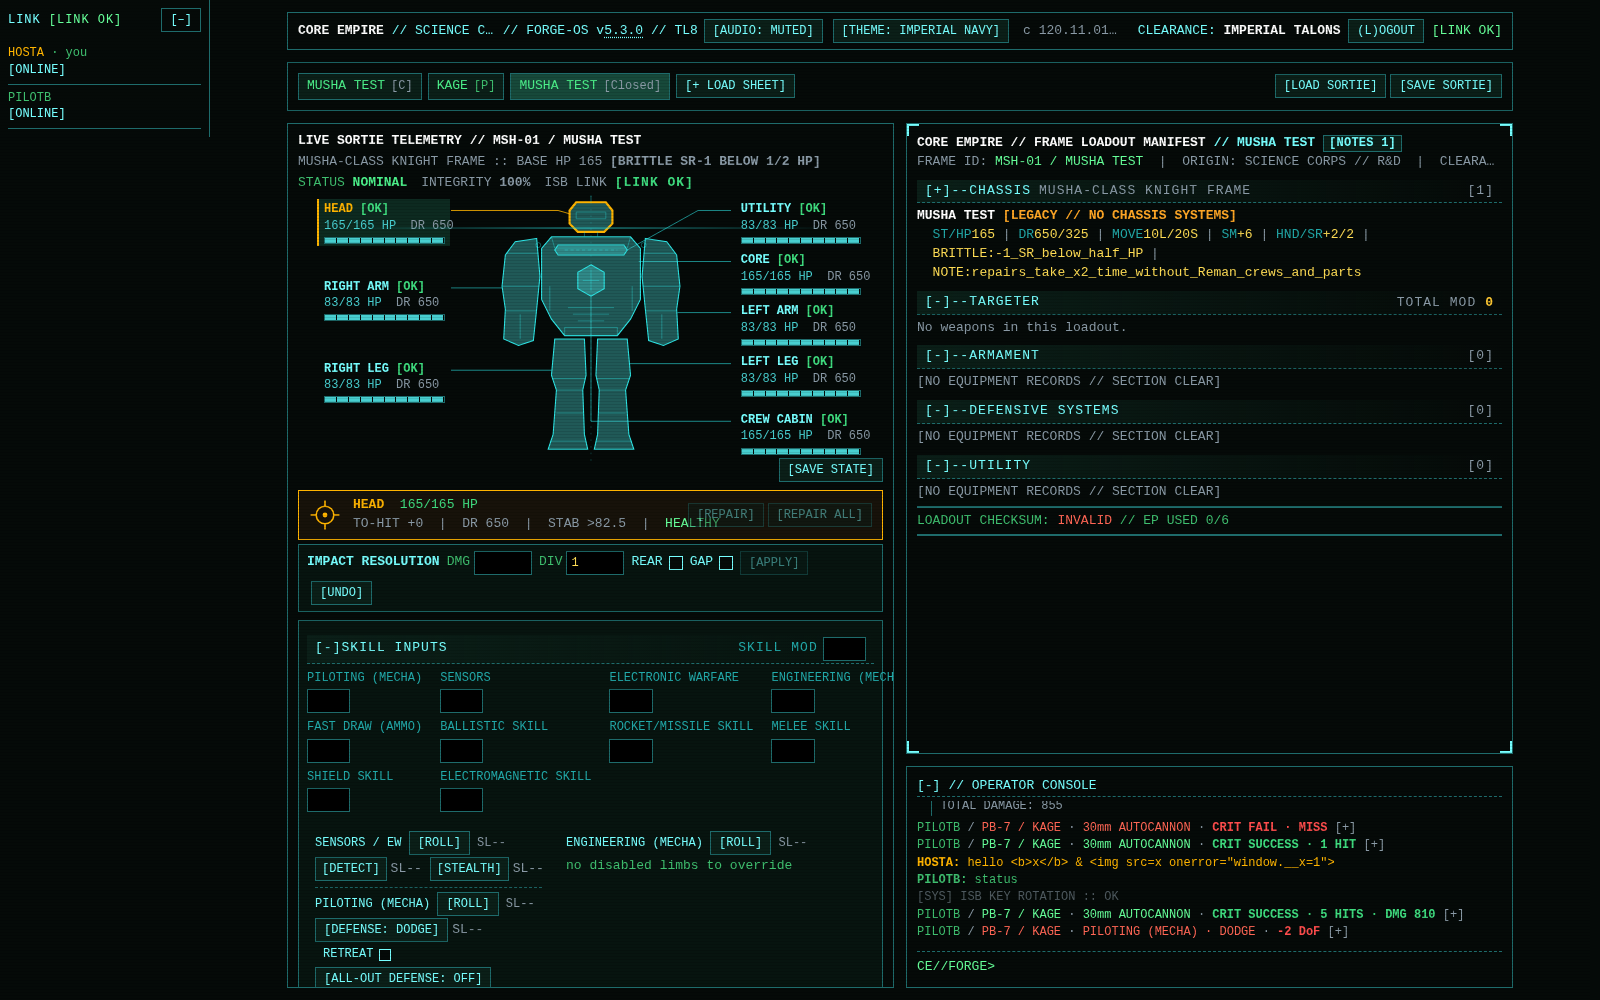
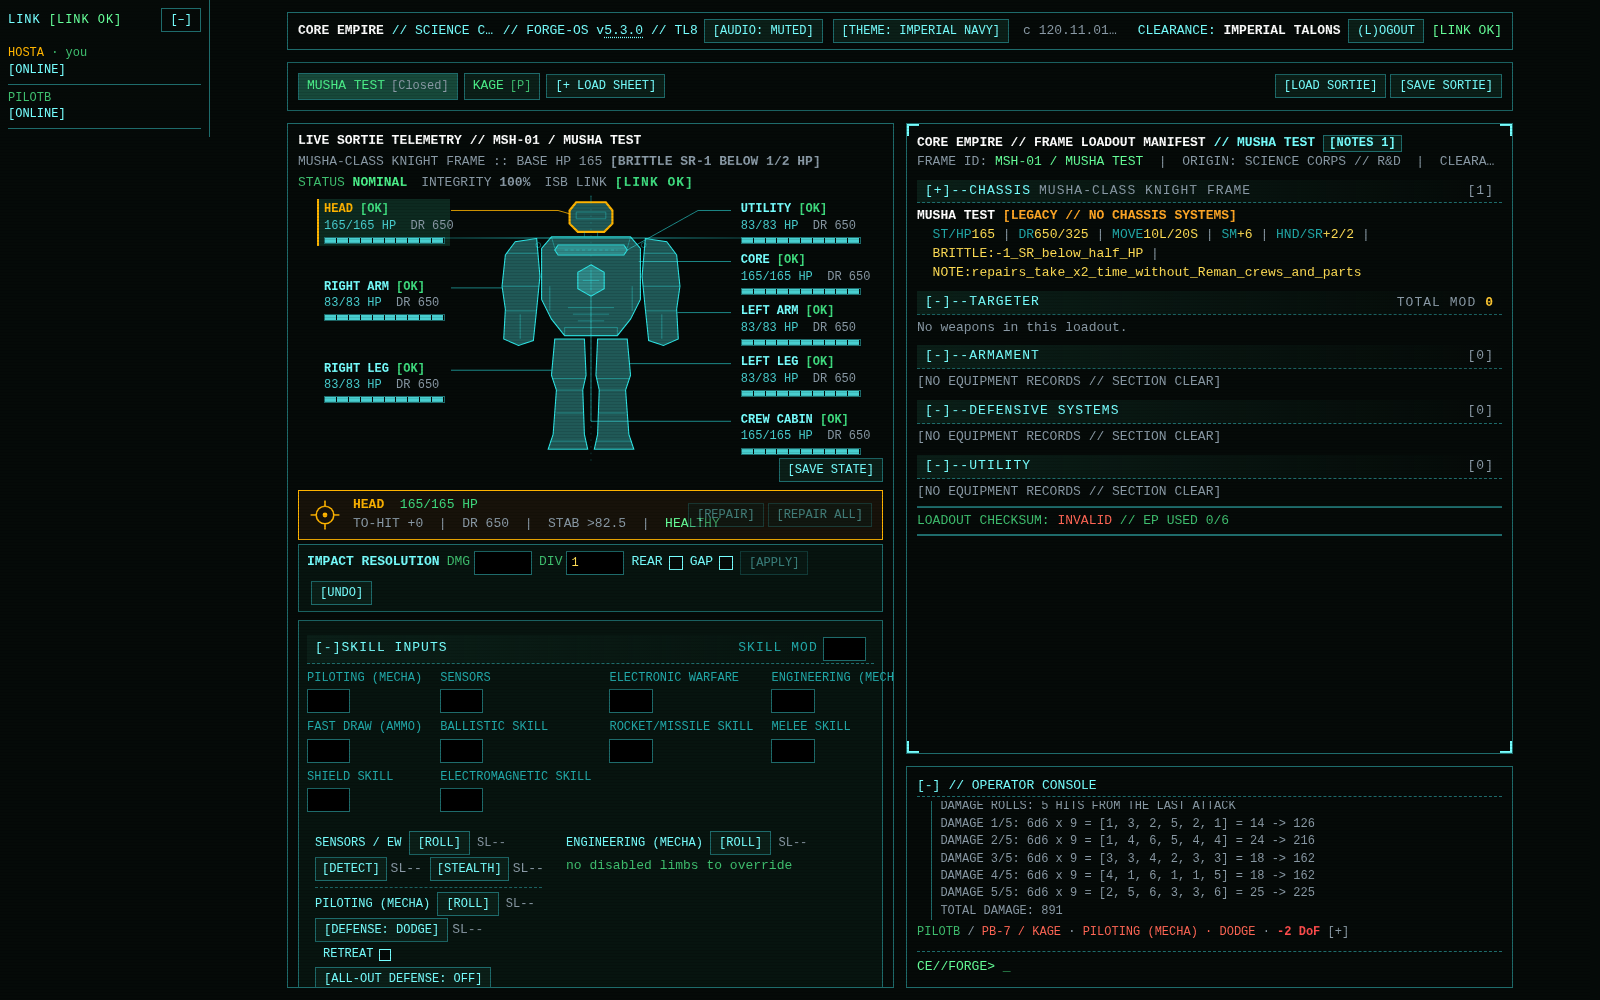
Remove docs/ and server contract; changelogs -> versions/changelogs; roll20 -> catalogue/reference

diff --git a/devtools/check-v53-mp.js b/devtools/check-v53-mp.js
@@ -107,10 +107,11 @@ const wait = (ms) => new Promise(r => setTimeout(r, ms));
   ok(await logHas(P.p, /YOUR UNITS ::/), "'/mp whoami' runs as a command");
   await wait(2500);
   ok(!(await got(H.p, /mp whoami/, 1500)), "'/mp whoami' is not sent as chat");
+  const seen = await H.p.evaluate(() => [...document.querySelectorAll('#log .rc')].map(e => e.dataset.rcid));
   await P.p.evaluate((k) => { const W = weapons(); W[k].am = 30; Forge.state().dmgN = 5; const R0 = Math.random; Math.random = () => 0; atkRoll(k); Math.random = R0; }, k[0]);
-  const card = async (p, re, ms = 10000) => { const t0 = Date.now(); while (Date.now() - t0 < ms) { const v = await p.evaluate((src) => { const re = new RegExp(src); const els = [...document.querySelectorAll('#log .rc')].filter(x => re.test(x.textContent)); const el = els[els.length - 1]; return el ? { id: el.dataset.rcid, txt: el.textContent, exp: el.getAttribute('aria-expanded') } : null; }, re.source); if (v) return v; await wait(300); } return null; };
+  const card = async (p, re, ms = 10000) => { const t0 = Date.now(); while (Date.now() - t0 < ms) { const v = await p.evaluate(([src, seen]) => { const re = new RegExp(src); const els = [...document.querySelectorAll('#log .rc')].filter(x => !seen.includes(x.dataset.rcid) && re.test(x.textContent)); const el = els[els.length - 1]; return el ? { id: el.dataset.rcid, txt: el.textContent, exp: el.getAttribute('aria-expanded') } : null; }, [re.source, seen]); if (v) return v; await wait(300); } return null; };
   const hcard = await card(H.p, /^PILOTB.* \/ PB-7 .* · .* · CRIT SUCCESS · \d+ HITS/);
-  ok(!!hcard && hcard.exp === 'false', 'host sees the attack as one line: USER / FRAME · WEAPON · N HITS ' + JSON.stringify(hcard));
+  ok(!!hcard && hcard.exp === 'false' && !/DMG/.test(hcard.txt), 'host sees the attack as one line: USER / FRAME · WEAPON · N HITS ' + JSON.stringify(hcard));
   if (hcard) {
     await H.p.locator(`#log .rc[data-rcid="${hcard.id}"]`).first().click(); await wait(300);
     const hd = await H.p.evaluate((id) => { const el = document.querySelector(`#log .rc[data-rcid="${id}"]`), d = el.nextElementSibling; return { exp: el.getAttribute('aria-expanded'), det: d && d.classList.contains('rcd') ? d.textContent : '', html: d ? d.innerHTML : '' }; }, hcard.id);
@@ -118,7 +119,7 @@ const wait = (ms) => new Promise(r => setTimeout(r, ms));
     await P.p.evaluate((k) => rollW(k), k[0]);
     const t0 = Date.now(); let up = null;
     while (Date.now() - t0 < 9000) { up = await H.p.evaluate((id) => { const els = document.querySelectorAll(`#log .rc[data-rcid="${id}"]`), d = els[0].nextElementSibling; return { n: els.length, txt: els[0].textContent, det: d ? d.textContent : '' }; }, hcard.id); if (/DMG \d+/.test(up.txt)) break; await wait(300); }
-    ok(up && up.n === 1 && /HITS · DMG \d+/.test(up.txt) && /DAMAGE 1\//.test(up.det), 'damage folds into the same line on the host (and its open details) ' + JSON.stringify(up && [up.n, up.txt]));
+    ok(up && up.n === 1 && /HITS · DMG \d+/.test(up.txt) && /DAMAGE 1\//.test(up.det) && /\[-\]$/.test(up.txt.trim()), 'damage folds into the same line on the host (and its open details) ' + JSON.stringify(up && [up.n, up.txt]));
   }
   await P.p.evaluate(() => { const R0 = Math.random; Math.random = () => 0.5; dodgeRoll(); Math.random = R0; });
   const dc = await card(H.p, /^PILOTB.* · DODGE · [+-]\d+ Do[SF]/);

diff --git a/devtools/check-v53.js b/devtools/check-v53.js
@@ -196,9 +196,10 @@ const wait = ms => new Promise(r => setTimeout(r, ms));
   await typeCmd('/help'); await wait(1500);
   ok(await p.evaluate(() => /COMMANDS START WITH \//.test(document.getElementById('log').textContent)), "'/help' lists the commands");
   const kr5 = await p.evaluate(() => weapons().findIndex(w => wRof(w) === 5));
+  const seen0 = await p.evaluate(() => [...document.querySelectorAll('#log .rc')].map(e => e.dataset.rcid));
   await p.evaluate((k) => { awBind(k, 1); S.dmgN = 5; S.pilot.rng = '1'; weapons()[k].am = 30; R(); const R0 = Math.random; Math.random = () => 0; atkRoll(k); Math.random = R0; }, kr5); await wait(3500);
-  const c1 = await p.evaluate(() => { const els = [...document.querySelectorAll('#log .rc')], el = els[els.length - 1]; return { sum: el.textContent, exp: el.getAttribute('aria-expanded'), role: el.getAttribute('role'), tab: el.tabIndex, id: el.dataset.rcid }; });
-  ok(/^LOCAL \/ .+ · 30mm.* · CRIT SUCCESS · \d+ HITS/.test(c1.sum) && c1.exp === 'false' && c1.role === 'button' && c1.tab === 0, 'attack roll: one compact line USER / FRAME · WEAPON · N HITS ' + JSON.stringify(c1));
+  const c1 = await p.evaluate((seen) => { const els = [...document.querySelectorAll('#log .rc')].filter(e => !seen.includes(e.dataset.rcid)), el = els[els.length - 1]; return { sum: el.textContent, exp: el.getAttribute('aria-expanded'), role: el.getAttribute('role'), tab: el.tabIndex, id: el.dataset.rcid, n: els.length }; }, seen0);
+  ok(/^LOCAL \/ .+ · 30mm.* · CRIT SUCCESS · \d+ HITS/.test(c1.sum) && c1.n === 1 && !/DMG/.test(c1.sum) && c1.exp === 'false' && c1.role === 'button' && c1.tab === 0, 'attack roll: one compact line USER / FRAME · WEAPON · N HITS ' + JSON.stringify(c1));
   await p.locator(`#log .rc[data-rcid="${c1.id}"]`).click(); await wait(200);
   const c2 = await p.evaluate((id) => { const el = document.querySelector(`#log .rc[data-rcid="${id}"]`), d = el.nextElementSibling; return { exp: el.getAttribute('aria-expanded'), det: d && d.classList.contains('rcd') ? d.textContent : '' }; }, c1.id);
   ok(c2.exp === 'true' && /3d6 \[1, 1, 1\] = 3 vs SL/.test(c2.det) && /SUCCESS BY/.test(c2.det) && /DEGREES OF SUCCESS/.test(c2.det), 'click expands the individual rolls (to-hit, SL, margin, degrees) ' + JSON.stringify(c2));

diff --git a/versions/v5.3/CHANGELOG-v5.3.md b/versions/v5.3/CHANGELOG-v5.3.md
@@ -1,0 +1,41 @@
+# FORGE-OS 5.3.0 (basic pass, built on 5.2.1)
+
+Files: terminal.html (v5.3.0), mp-bridge.js (v18), forge-hook.js (unchanged), server/room.server.ts (one optional field on console lines).
+New UI is marked **[UI]**.
+
+## Reverts / removals
+- DONE: The font is back to the original Consolas stack and sizes. The JetBrains Mono web font and the fonts/ folder are gone.
+- DONE: The HUD sortie header is back to the compact one-line readout. The BRITTLE and AOA tags stay. At 1280px the top bar fits on one line: flex nowrap, the brand truncates with an ellipsis, and the theme label is shorter.
+- DONE: The full-health paper doll uses the theme color again, slightly desaturated (`--c-full`), so it still looks different from the ok, dmg and crit colors.
+- DONE: The RAD tracker UI (the pilot rads line and buttons) is removed. A stored `pilot.rad` still loads and is kept, but it isn't shown.
+
+## Items / weapons [UI]
+- DONE: Left-clicking an item no longer opens its catalogue entry. Right-click (or Shift+F10 / the ContextMenu key) opens a menu with Info and the hand or station choices. The hand dropdown is gone, and the row shows a read-only mount tag. The menu reuses the 5.2 tab context menu.
+- DONE: Left-clicking a weapon (or pressing Enter on its row) makes it the active weapon. The targeter title shows `TARGETER // <weapon>`, and the targeter and All-Out Attack are bound to that weapon. Only one weapon is active at a time. This is local UI state, so it isn't synced.
+- DONE (RoF cap, Overseer's addendum): The targeter RoF input max is the active weapon's RoF, and melee is 1. The value is clamped on input and when you switch weapons. TOTAL MOD and the ROF bonus use the clamped value, which fixes the +2 readout mismatch.
+
+## All-Out Attack [UI]
+- DONE: AoA is now one button in the targeter that toggles it on or off and shows the current type. Right-click it to change the type. The menu lists only types valid for the weapon: melee gets Determined, Double, Feint, Strong and Long; ranged gets Determined, plus Suppression at RoF 5 or more. An invalid type is cleared when you switch weapons. The amber `AOA: ... // NO DEFENSE` header tag stays.
+
+## Defense [UI]
+- DONE: The PILOTING box has one DEFENSE button showing the current type (Dodge, Parry, Block or Turn Blow). Right-click changes the type. Parry is listed only with a melee weapon held, and Block only with a held shield. Retreat still gives Dodge its bonus and now also gives +1 to Parry, Block and Turn Blow.
+- DONE: The ALL-OUT DEFENSE button works the same way (per B366, minimal). Right-click to pick Increased Dodge, Parry, Block or Turn Blow (+2 to that defense), or Double Defense (noted on the roll). AoD refuses ATK. AoA and AoD cancel each other, and AoA still disables every defense button.
+
+## Console / log (addenda)
+- DONE [UI]: Commands run only when they start with `/` (`/help`, `/undo`, `/roll 1 x2`, `/mp whoami`, `/mp reset-local confirm`). Text without `/` is a chat message to everyone at the table, shown in the sender's seat color (mpTint). It travels on the existing log channel as plain data (`rc:{k:'chat',t}`) and is rendered with textContent on every seat, never as HTML. Solo or offline, it echoes locally with a one-time hint. Help text, tab completion and console hints now use `/`.
+- DONE [UI]: An attack roll is ONE line: `USER / FRAME · WEAPON · N HITS` (or MISS, with CRIT SUCCESS or CRIT FAIL called out). Click it, or press Enter or Space while it's focused (role=button, aria-expanded), to expand the to-hit roll, the target SL, the margin, the recoil degrees and the hits. The DMG roll folds into the same line (`· DMG n`) and its open details, instead of adding a new line.
+- DONE [UI]: Every other skill roll uses the same compact line, `User / Mech / Action / Result`. The result is `+n DoS` or `-n DoF`, with crits called out. A damage roll with no attack line gets its own card.
+- DONE: Remote seats get the roll as structured data (`rc:{k:'roll',id,f,a,r,o,d[]}`), not HTML, and can expand it themselves. Every string is escaped with esc() when shown. The server validates the field with zod: id `^rc[a-z0-9]{1,20}$`, at most 40 detail lines of 300 chars, chat at most 500 chars. Older clients still get a plain-text fallback line.
+- DONE: Timestamps are no longer shown in the log. They are kept in `data-ts` only.
+- DONE: The `[CLEAR]` and `[COPY LOG]` buttons are removed. `/clear` still works, and on a live table it clears the shared log only for the host (unchanged).
+- DONE [UI]: The grey available-commands hint text under the input is gone in both console sizes. The command input is a single line, the same height expanded and minimized. `/help` still lists the commands.
+
+## Server
+- `room.server.ts`: `logSchema` gains an optional `rc` card (schema above), stored on the roll record as is. The actor is still the server-side callsign. Nothing else changed.
+
+## Tests (all pass)
+- Syntax: `node --check` passes for the inline script and mp-bridge.js. Server `tsc --noEmit` passes, and eslint shows only the warning that was already there.
+- `devtools/check-v53.js` (solo, 1280px, 67 checks) covers: fonts and HUD reverted; top bar on one line; paper doll color; RAD UI gone; item left-click and right-click; keyboard menu; RoF max, clamp and TOTAL MOD; AoA button, menus and validity; Defense, Retreat and AoD; `/` gating; local chat escaping; `/help`; cards collapsed by default, expanding on click, Enter and Space; DMG folding into the attack line; DoS/DoF and crit fail; no timestamps; CLEAR and COPY gone; no hint text; input row height the same expanded and minimized; plus the 5.2 regressions (Core +0, damage roll count, vent floors, tooltips, tab menu).
+- `devtools/check-v53-mp.js` (two seats on a fresh dev server) runs the 5.2.1 cases with `/mp` commands (Bug A, RESET-LOCAL/RESYNC confirm, 413, RoF cap). It adds: a host chat round-trip with `<b>`/`<img onerror>` (literal text, same seat color on both seats); pilot text without `/` arriving at the host as chat; `/mp whoami` running locally and not sent as chat; the host seeing and expanding the pilot's attack card from data; DMG folding into the host's line; a DoS/DoF card for a dodge; no remote timestamps.
+- `devtools/check-v53-mp-sync.js` (the 5.2 sync and guard checks with `/mp`), `server-api-test*.mjs` (the v53 file adds checks that chat and cards round-trip and that a bad id or overlong chat is refused) and `check-brittle.js` also pass.
+- Screenshots in `shots/`: v53-top-1280, v53-item-menu, v53-aoa-menu, v53-targeter-aoa, v53-defense-piloting, v53-console-cards, v53-mp-console, v53-mp-aoa-tag, v53-sheet-full.

diff --git a/README.md b/README.md
@@ -10,9 +10,7 @@ FORGE-OS is an in-world mech sheet and terminal for a GURPS mecha campaign. It l
 | [`versions/v5.0-stable/`](versions/v5.0-stable/) | **Stable v5.0**: the full app (terminal + server). |
 | [`catalogue/`](catalogue/) | Catalogue items (frames, weapons, systems) and the notes behind them. |
 | [`ui/`](ui/) | UI design passes, proposals (e.g. the desktop-shell idea) and the team's working copy. |
-| [`docs/`](docs/) | Changelogs and the multiplayer server contract. |
 | [`devtools/`](devtools/) | The team's build/patch scripts and automated checks. |
-| [`reference/`](reference/) | Inspiration notes, e.g. mechs captured from the Roll20 campaign. |
 
 ## Which version should I use?
 

diff --git a/versions/README.md b/versions/README.md
@@ -3,7 +3,7 @@
 | Folder | Status | What it is |
 |---|---|---|
 | `v5.0-stable/` | **Stable** | The complete app (terminal + server), as it was in the MECHA project's Main chat. Setup: `SETUP.txt`. |
-| `v5.2/` | Playtest build | Basic pass on the playtest feedback, plus the desync fixes. Changelog: `../docs/CHANGELOG-v5.2.md`. |
+| `v5.2/` | Playtest build | Basic pass on the playtest feedback, plus the desync fixes. Changelog: `changelogs/CHANGELOG-v5.2.md`. |
 | `v5.3/` | In progress | The next round of UI feedback. Not reviewed or approved yet. |
 
 ## Using a newer build
